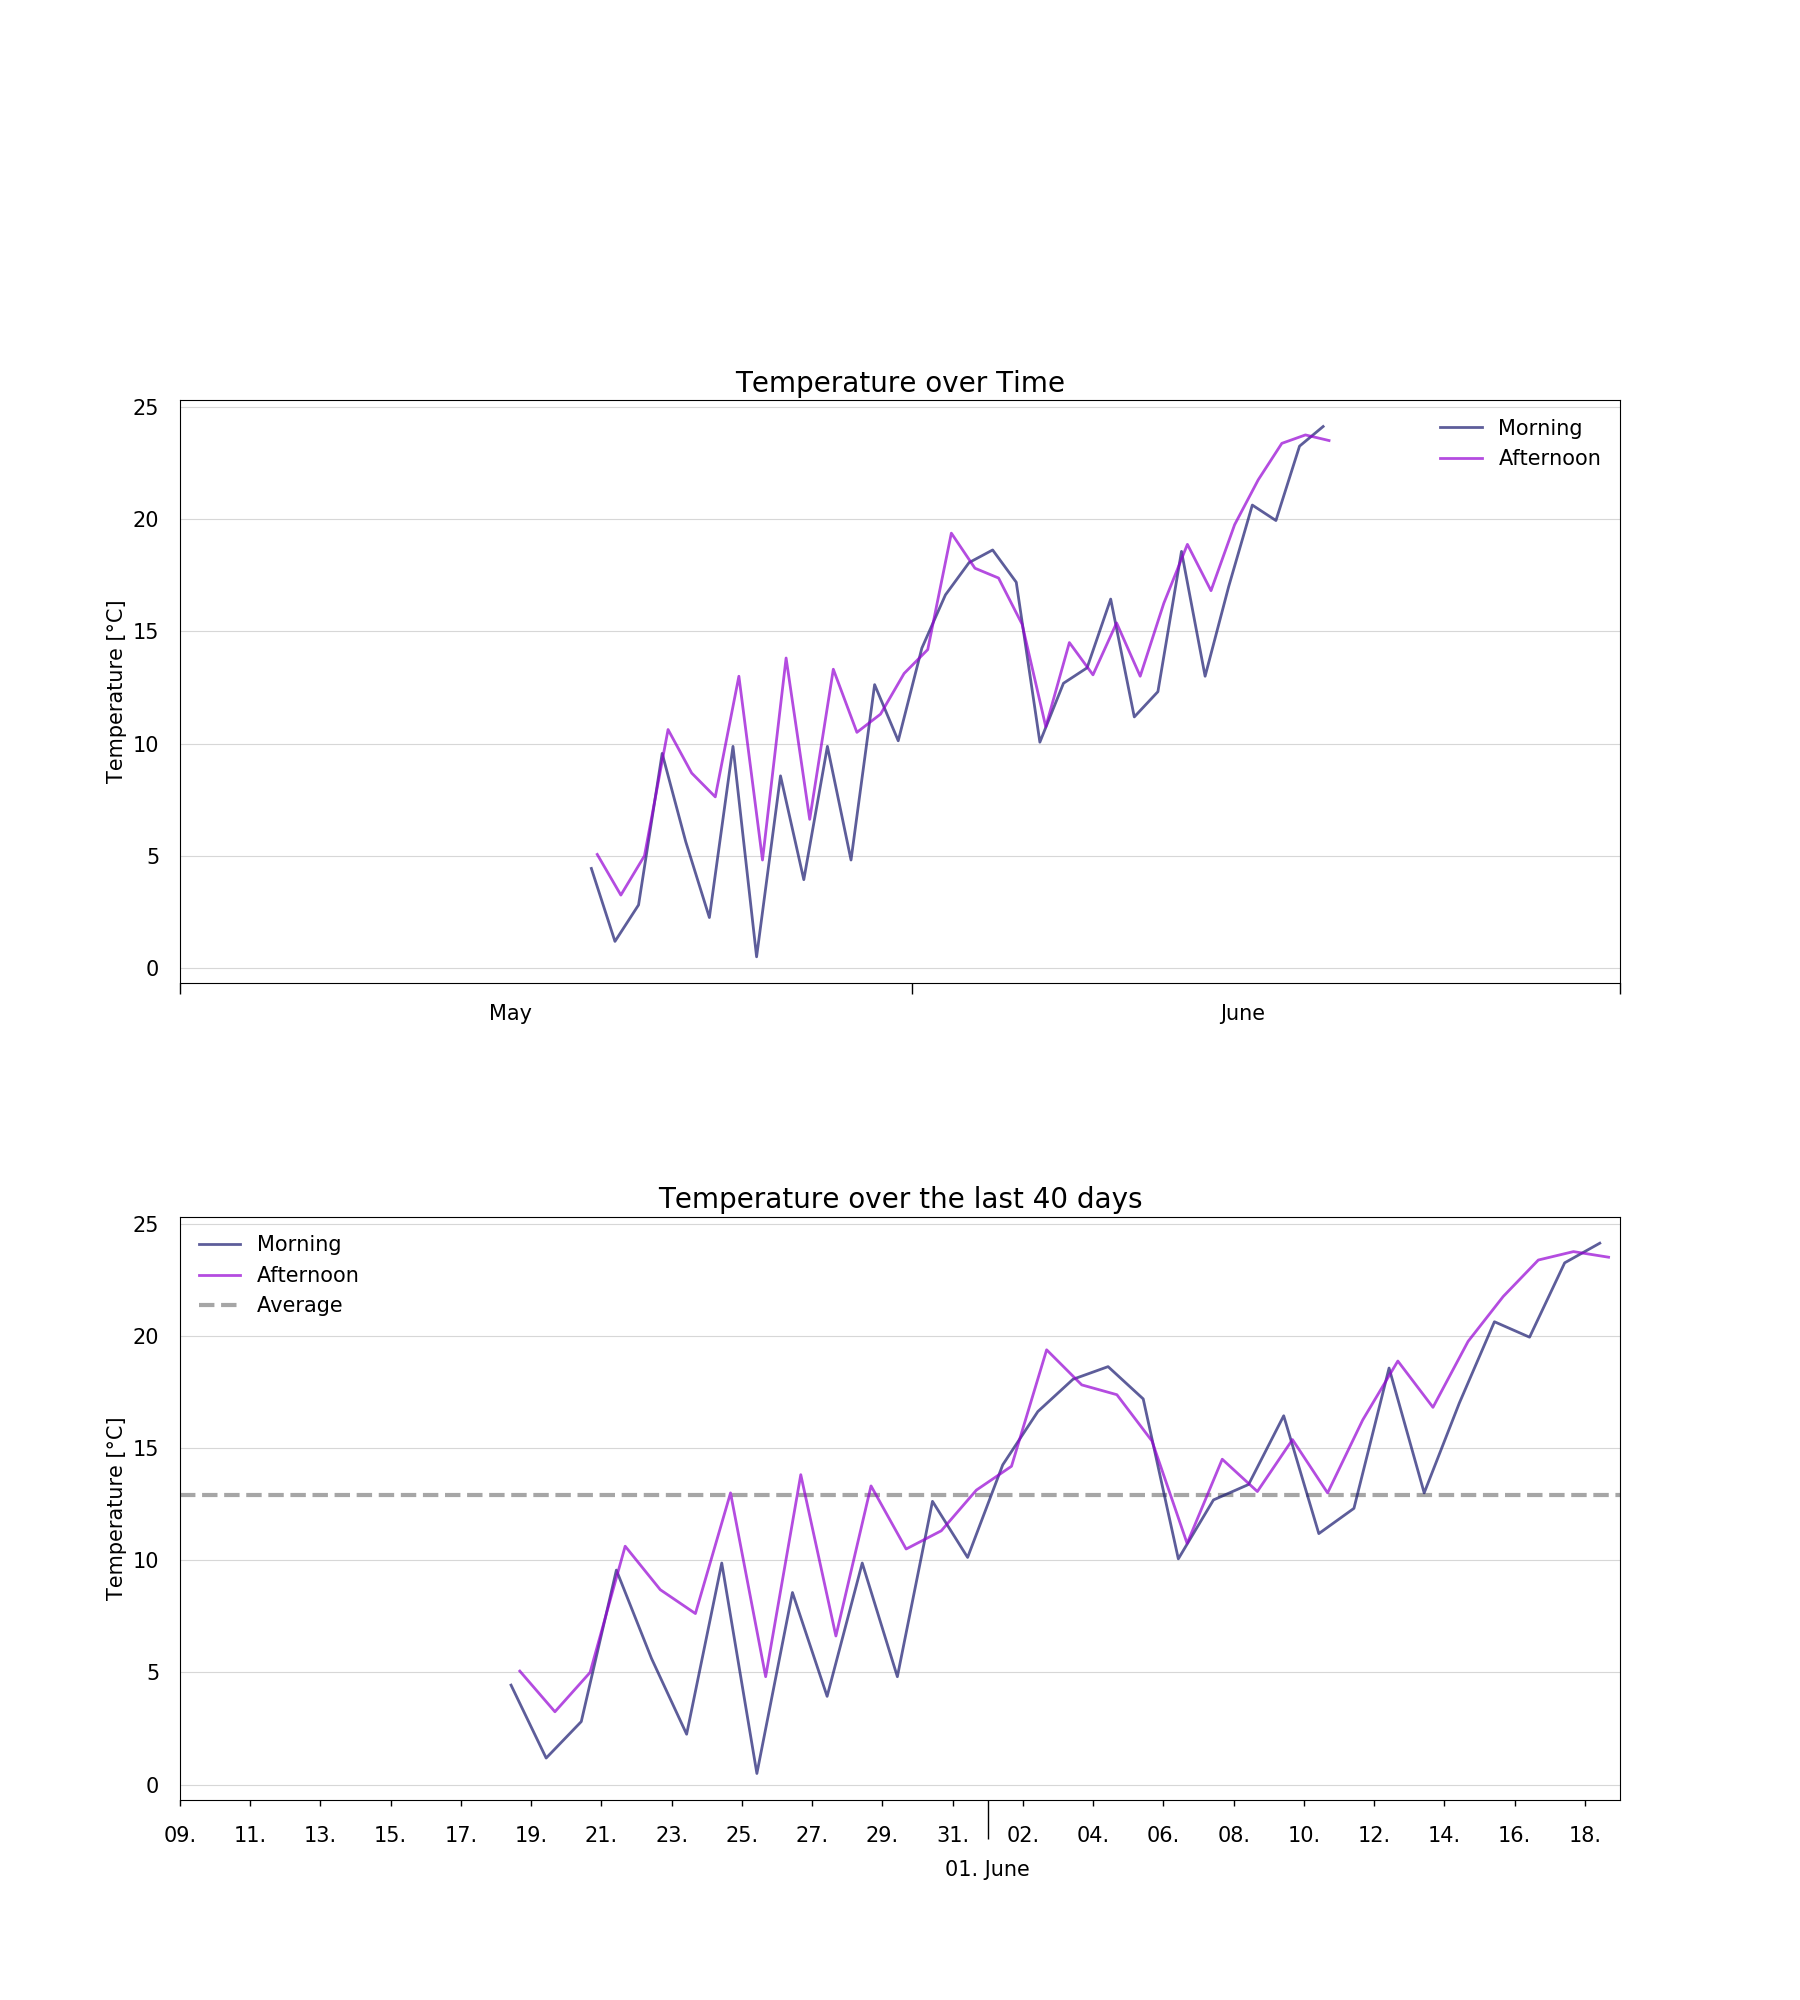
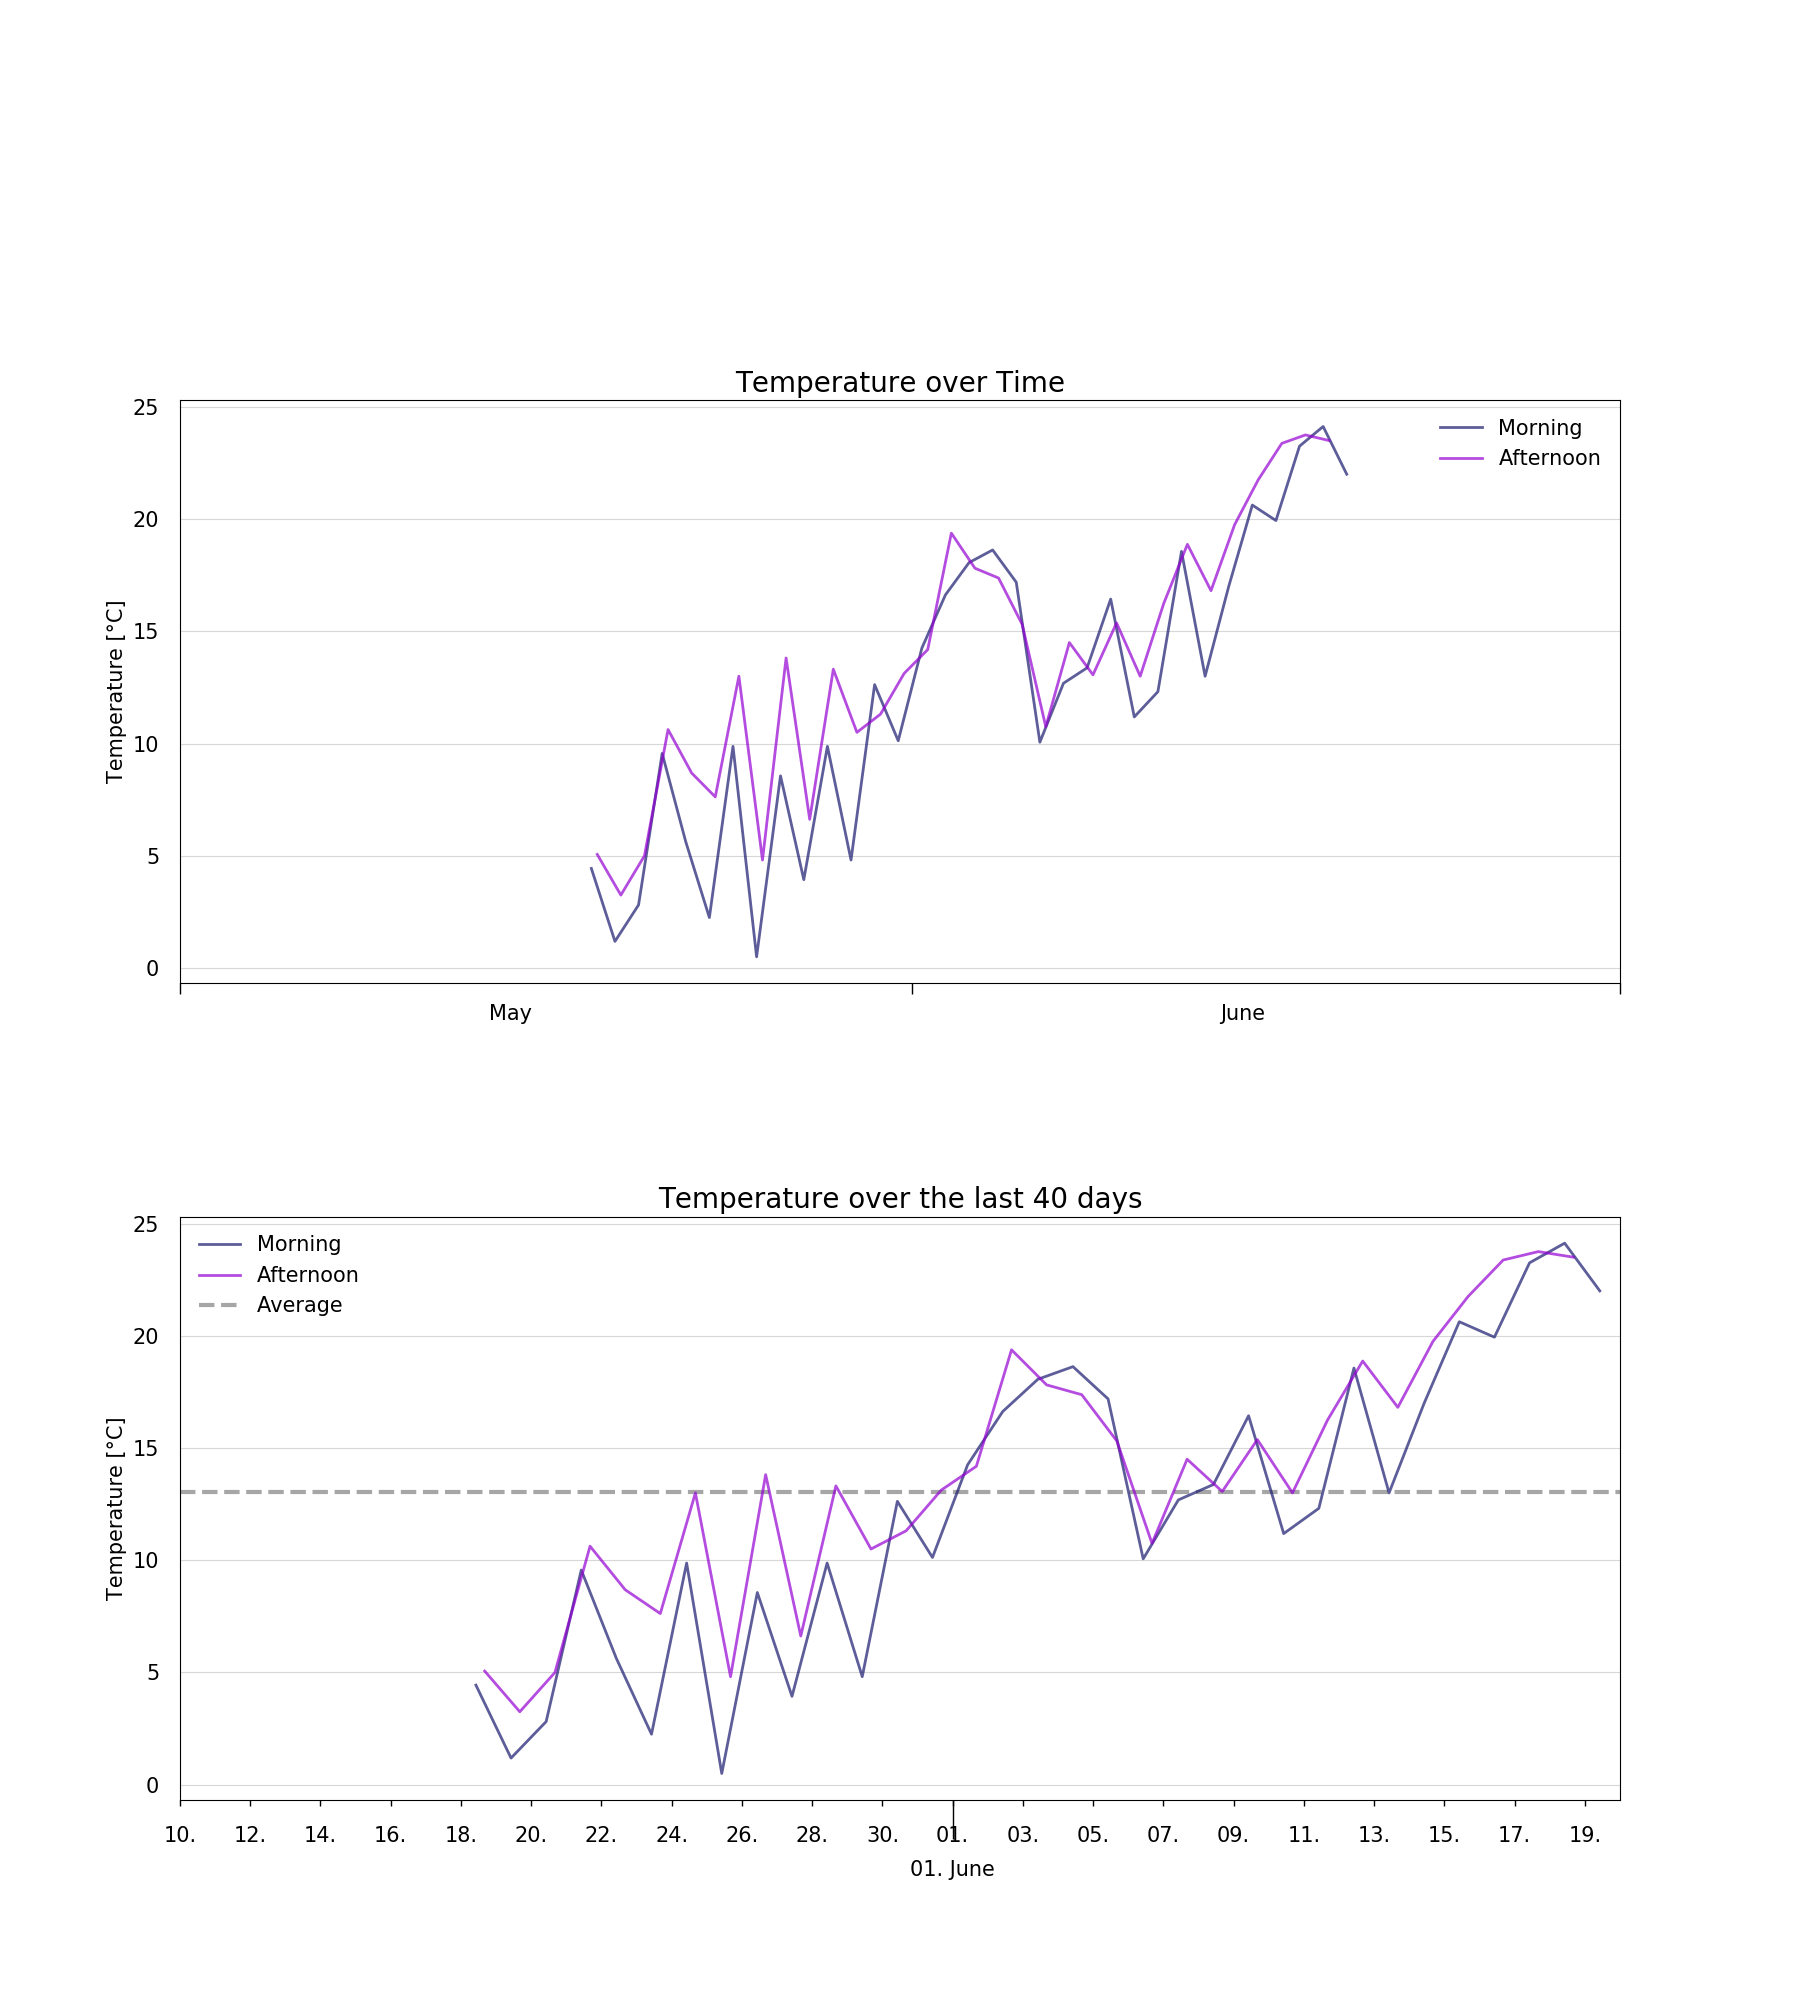
I'm a bot beep boop

diff --git a/resources/huette.md b/resources/huette.md
@@ -6,13 +6,13 @@ image: '/assets/img/'
 description: 'Live image from the Austrian alps'
 twitter_text: ' '
 ---
-## Latest image from 18 June 2021 at 16:12
+## Latest image from 19 June 2021 at 10:12
 <div class="huette">
   <div class="huette-image">
     <img src="{{ "/assets/img/huette.jpg" | prepend: site.baseurl }}">
   </div>
   <div class="huette-text">
-        <h2>Current Temperature: 23.5°C</h2>
+        <h2>Current Temperature: 22°C</h2>
         <p>A solar powered raspberry pi left alone in the wild is sending daily images and temperature data to this website. It should give you an impression about the current weather in the "Brixental".</p>
 
   </div>

diff --git a/rpi-script/huette.md b/rpi-script/huette.md
@@ -6,13 +6,13 @@ image: '/assets/img/'
 description: 'Live image from the Austrian alps'
 twitter_text: ' '
 ---
-## Latest image from 18 June 2021 at 16:12
+## Latest image from 19 June 2021 at 10:12
 <div class="huette">
   <div class="huette-image">
     <img src="{{ "/assets/img/huette.jpg" | prepend: site.baseurl }}">
   </div>
   <div class="huette-text">
-        <h2>Current Temperature: 23.5°C</h2>
+        <h2>Current Temperature: 22°C</h2>
         <p>A solar powered raspberry pi left alone in the wild is sending daily images and temperature data to this website. It should give you an impression about the current weather in the "Brixental".</p>
 
   </div>
